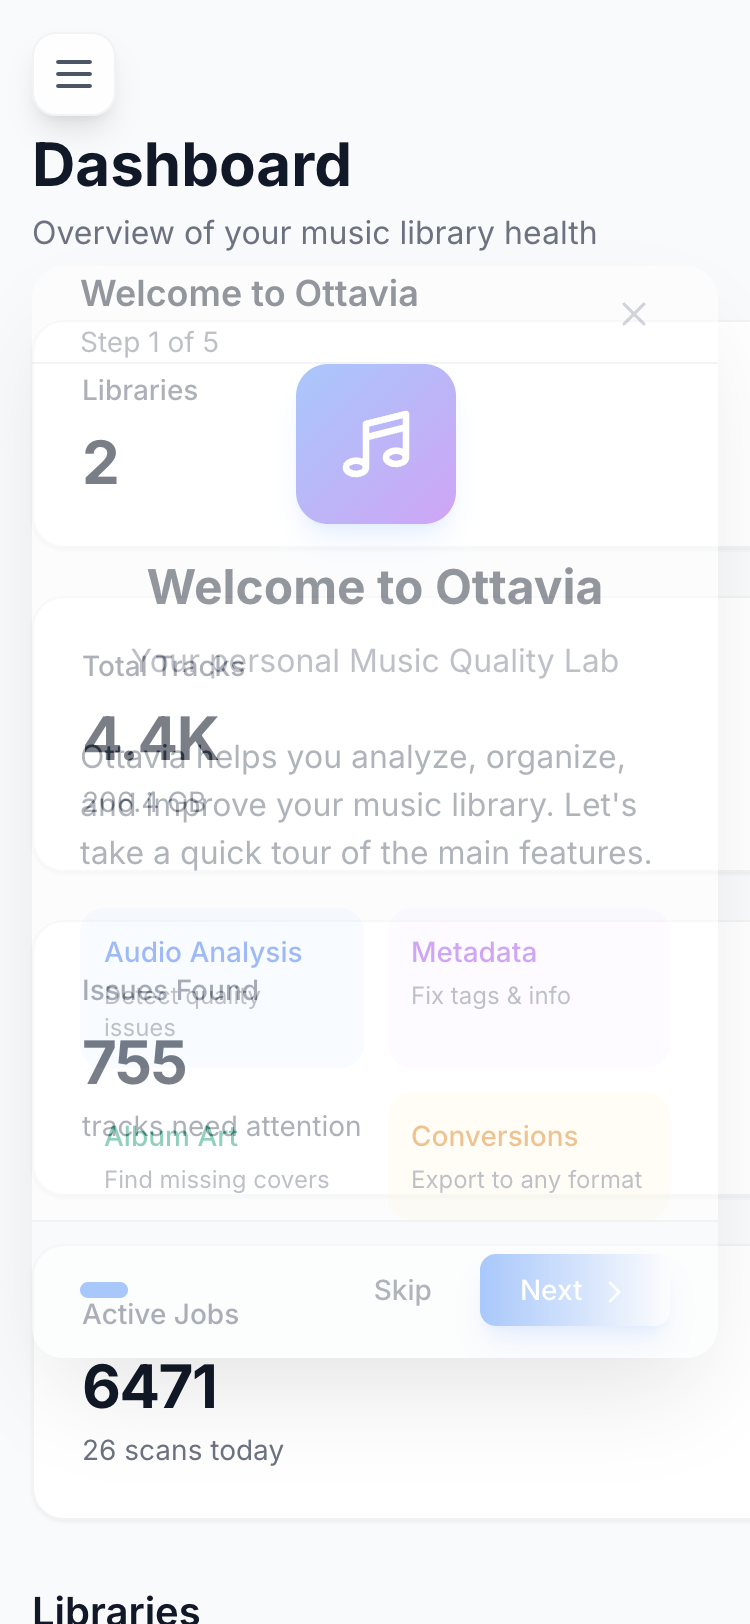
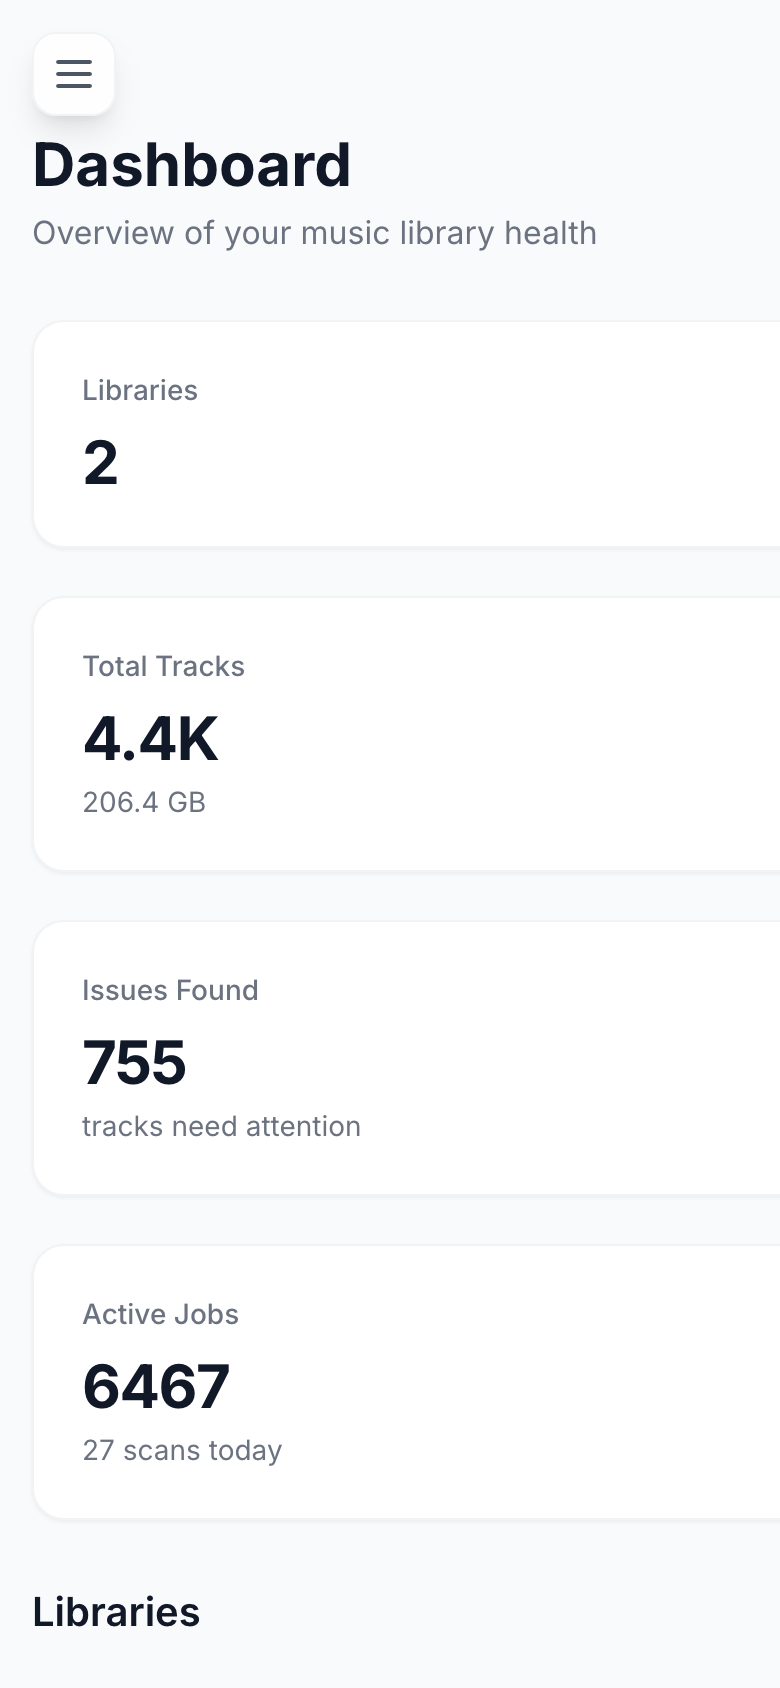
Fix wizard overlay in screenshots and improve mobile layout
- Update screenshot generator to dismiss wizard before capturing
- Add dedicated wizard-welcome screenshot showing onboarding modal
- Use localStorage to prevent wizard auto-show during screenshots
- Increase mobile viewport to iPhone 14/15 size (390x844)
- Update README with wizard screenshot section

diff --git a/tests/e2e/screenshots.go b/tests/e2e/screenshots.go
@@ -67,32 +67,34 @@ func main() {
 
 	// Screenshots to capture
 	screenshots := []struct {
-		name     string
-		path     string
-		width    int
-		height   int
-		darkMode bool
-		wait     time.Duration
-		fullPage bool
+		name       string
+		path       string
+		width      int
+		height     int
+		darkMode   bool
+		wait       time.Duration
+		fullPage   bool
+		showWizard bool
 	}{
-		{"dashboard-light", "/", 1920, 1080, false, 500 * time.Millisecond, false},
-		{"dashboard-dark", "/", 1920, 1080, true, 500 * time.Millisecond, false},
-		{"tracks-light", "/tracks", 1920, 1080, false, 500 * time.Millisecond, false},
-		{"tracks-dark", "/tracks", 1920, 1080, true, 500 * time.Millisecond, false},
-		{"track-detail-light", "/tracks/" + trackID, 1920, 1400, false, 500 * time.Millisecond, true},
-		{"track-detail-dark", "/tracks/" + trackID, 1920, 1400, true, 500 * time.Millisecond, true},
-		{"albums-light", "/albums", 1920, 1080, false, 500 * time.Millisecond, false},
-		{"albums-dark", "/albums", 1920, 1080, true, 500 * time.Millisecond, false},
-		{"album-detail-light", albumURL, 1920, 1400, false, 500 * time.Millisecond, true},
-		{"album-detail-dark", albumURL, 1920, 1400, true, 500 * time.Millisecond, true},
-		{"settings-light", "/settings", 1920, 1080, false, 500 * time.Millisecond, false},
-		{"settings-dark", "/settings", 1920, 1080, true, 500 * time.Millisecond, false},
-		{"conversions-light", "/conversions", 1920, 1080, false, 500 * time.Millisecond, false},
-		{"conversions-dark", "/conversions", 1920, 1080, true, 500 * time.Millisecond, false},
-		{"artwork-light", "/artwork", 1920, 1080, false, 500 * time.Millisecond, false},
-		{"artwork-dark", "/artwork", 1920, 1080, true, 500 * time.Millisecond, false},
-		{"dashboard-mobile", "/", 375, 812, false, 500 * time.Millisecond, false},
-		{"tracks-mobile", "/tracks", 375, 812, false, 500 * time.Millisecond, false},
+		{"dashboard-light", "/", 1920, 1080, false, 500 * time.Millisecond, false, false},
+		{"dashboard-dark", "/", 1920, 1080, true, 500 * time.Millisecond, false, false},
+		{"tracks-light", "/tracks", 1920, 1080, false, 500 * time.Millisecond, false, false},
+		{"tracks-dark", "/tracks", 1920, 1080, true, 500 * time.Millisecond, false, false},
+		{"track-detail-light", "/tracks/" + trackID, 1920, 1400, false, 500 * time.Millisecond, true, false},
+		{"track-detail-dark", "/tracks/" + trackID, 1920, 1400, true, 500 * time.Millisecond, true, false},
+		{"albums-light", "/albums", 1920, 1080, false, 500 * time.Millisecond, false, false},
+		{"albums-dark", "/albums", 1920, 1080, true, 500 * time.Millisecond, false, false},
+		{"album-detail-light", albumURL, 1920, 1400, false, 500 * time.Millisecond, true, false},
+		{"album-detail-dark", albumURL, 1920, 1400, true, 500 * time.Millisecond, true, false},
+		{"settings-light", "/settings", 1920, 1080, false, 500 * time.Millisecond, false, false},
+		{"settings-dark", "/settings", 1920, 1080, true, 500 * time.Millisecond, false, false},
+		{"conversions-light", "/conversions", 1920, 1080, false, 500 * time.Millisecond, false, false},
+		{"conversions-dark", "/conversions", 1920, 1080, true, 500 * time.Millisecond, false, false},
+		{"artwork-light", "/artwork", 1920, 1080, false, 500 * time.Millisecond, false, false},
+		{"artwork-dark", "/artwork", 1920, 1080, true, 500 * time.Millisecond, false, false},
+		{"wizard-welcome", "/", 1920, 1080, true, 800 * time.Millisecond, false, true},
+		{"dashboard-mobile", "/", 390, 844, false, 500 * time.Millisecond, false, false},
+		{"tracks-mobile", "/tracks", 390, 844, false, 500 * time.Millisecond, false, false},
 	}
 
 	for _, s := range screenshots {
@@ -124,7 +126,21 @@ func main() {
 			continue
 		}
 
-		// Navigate to page
+		// Set localStorage to prevent wizard auto-show BEFORE navigating (except for wizard screenshot)
+		if !s.showWizard {
+			// First navigate to base URL to set localStorage
+			_, err = page.Goto(baseURL, playwright.PageGotoOptions{
+				WaitUntil: playwright.WaitUntilStateCommit,
+			})
+			if err == nil {
+				page.Evaluate(`
+					localStorage.setItem('welcomeWizardDismissed', 'true');
+					localStorage.setItem('wizardsCompleted', JSON.stringify(['welcome']));
+				`)
+			}
+		}
+
+		// Navigate to target page
 		_, err = page.Goto(fmt.Sprintf("%s%s", baseURL, s.path), playwright.PageGotoOptions{
 			WaitUntil: playwright.WaitUntilStateNetworkidle,
 		})
@@ -144,6 +160,21 @@ func main() {
 				log.Printf("Error setting dark mode: %v", err)
 			}
 			time.Sleep(300 * time.Millisecond) // Wait for theme transition
+		}
+
+		// Handle wizard overlay
+		if s.showWizard {
+			// Show the welcome wizard - wait for Alpine first
+			time.Sleep(500 * time.Millisecond)
+			_, err = page.Evaluate(`
+				if (typeof Alpine !== 'undefined' && Alpine.store('wizard')) {
+					Alpine.store('wizard').start('welcome');
+				}
+			`)
+			if err != nil {
+				log.Printf("Error showing wizard: %v", err)
+			}
+			time.Sleep(500 * time.Millisecond) // Wait for wizard animation
 		}
 
 		// Take screenshot

diff --git a/README.md b/README.md
@@ -183,6 +183,12 @@ Are your "lossless" files actually lossless? Many FLAC and ALAC files in the wil
 </p>
 
 <p align="center">
+  <img src="screenshots/wizard-welcome.png" alt="Welcome Wizard" width="100%">
+  <br>
+  <em>Interactive Onboarding - Guided wizards help new users get started</em>
+</p>
+
+<p align="center">
   <img src="screenshots/dashboard-mobile.png" alt="Mobile" width="300">
   <img src="screenshots/tracks-mobile.png" alt="Mobile Tracks" width="300">
   <br>
